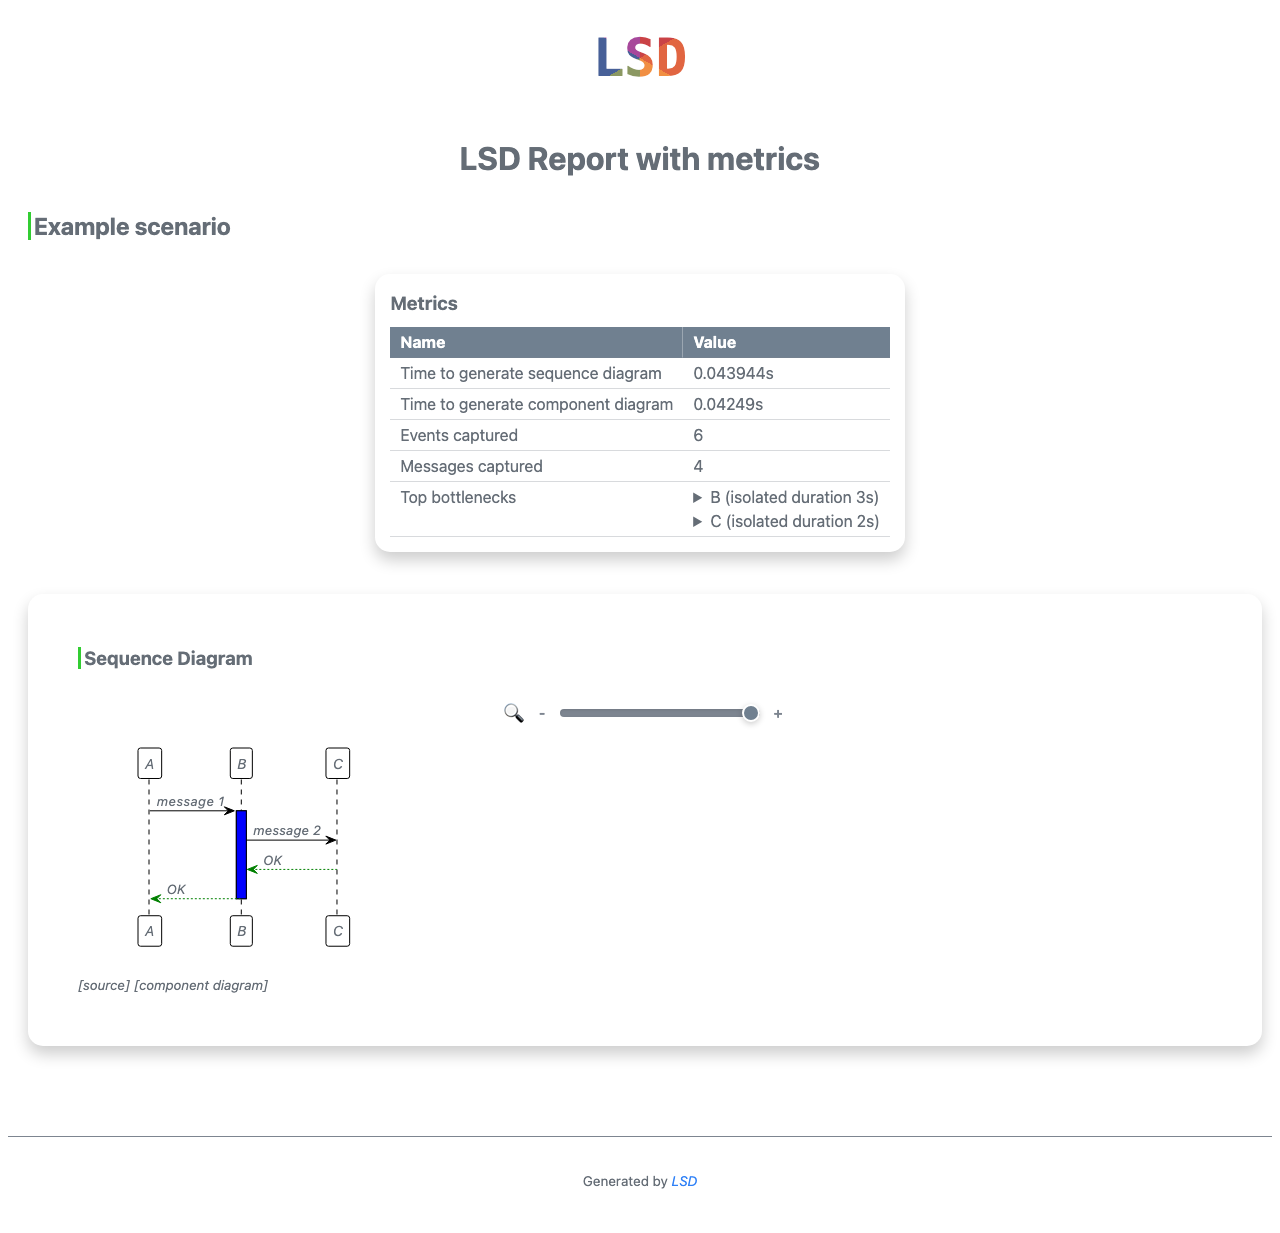
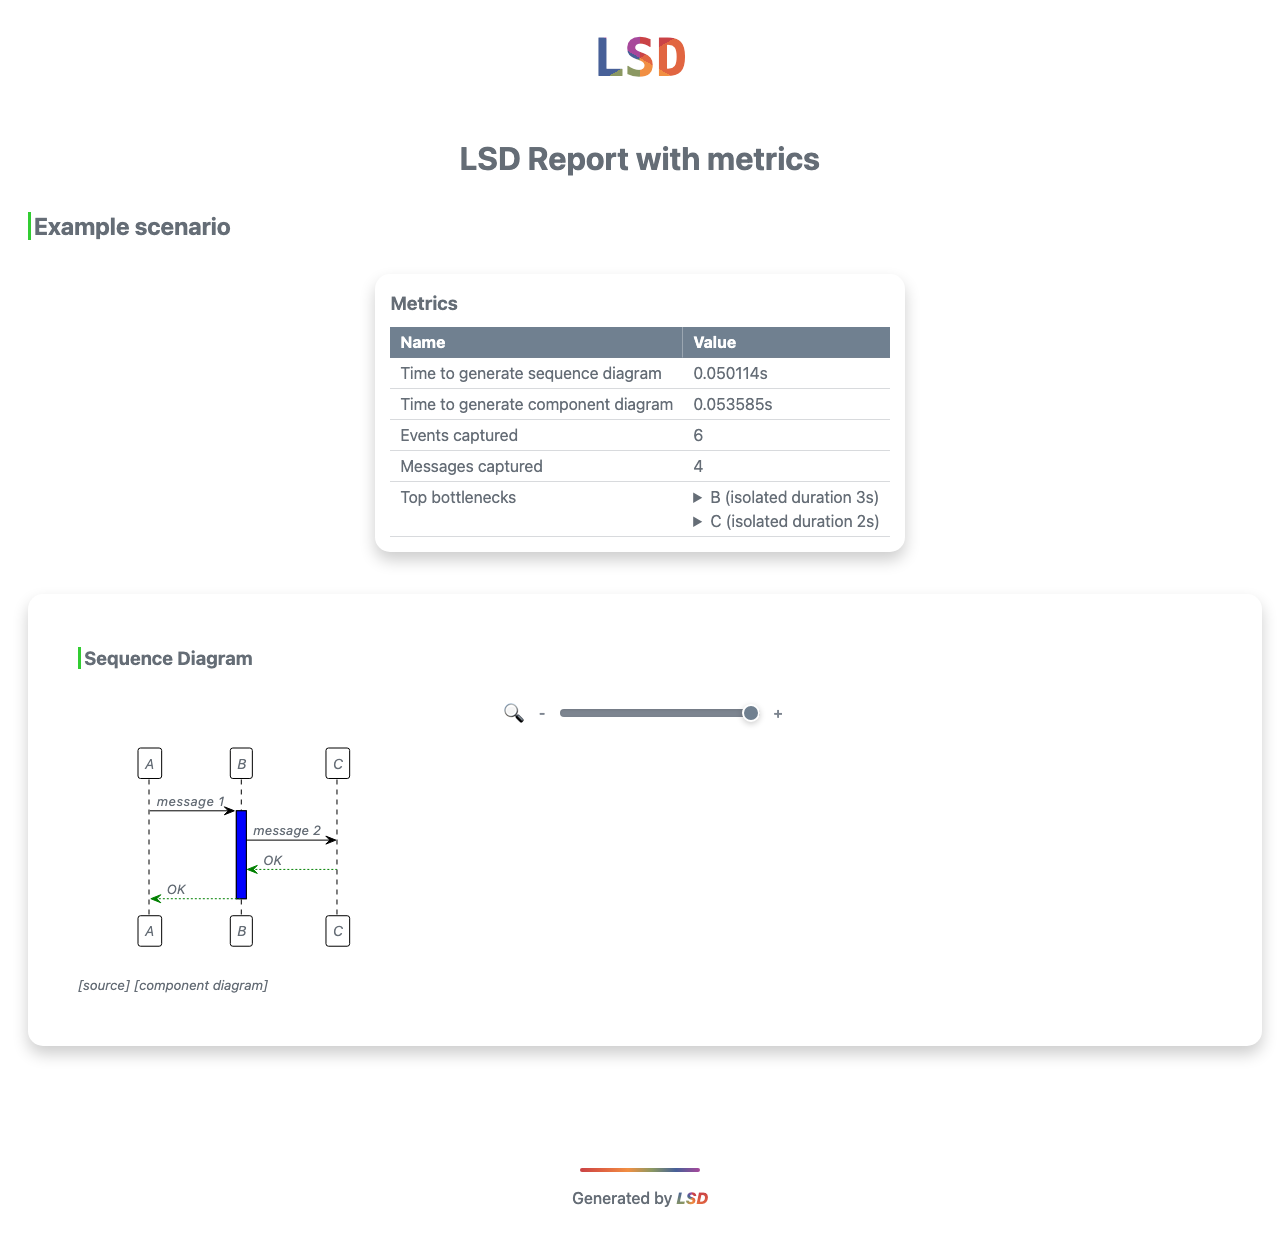
fix: update footer styling

diff --git a/src/test/java/com/lsd/core/report/approval/LsdContextTest.createsReportWithScenariosInDevMode.approved.html b/src/test/java/com/lsd/core/report/approval/LsdContextTest.createsReportWithScenariosInDevMode.approved.html
@@ -540,18 +540,38 @@ input[type="range"]::-moz-range-track {
 }
 
 /* Report footer */
-.report-footer {
-    text-align: center;
-    padding: 20px;
-    margin-top: 40px;
-    border-top: 1px solid var(--color-border);
-    font-size: 0.85em;
-    color: var(--color-text-secondary);
+.report-footer.ribbon {
+    padding: 32px 20px 36px;
+    margin-top: 72px;
+    background: var(--color-background-primary);
 }
 
-.report-footer a {
-    color: var(--color-5);
+.ribbon-bar {
+    height: 4px;
+    width: 120px;
+    margin: 0 auto 14px;
+    border-radius: 4px;
+    background: linear-gradient(90deg, #CA4246, #E16541, #F18F43, #8B9862, #476098, #A7489B);
 }
+
+.footer-stack {
+    text-align: center;
+}
+
+.report-footer .footer-text {
+    margin: 0;
+    color: var(--color-text-primary);
+    font-weight: 500;
+}
+
+.footer-brand {
+    font-weight: 800;
+    background: conic-gradient(#CA4246 16.6%, #E16541 33.3%, #F18F43 50%, #8B9862 66.6%, #476098 83.3%, #A7489B 100%);
+    -webkit-background-clip: text;
+    -webkit-text-fill-color: transparent;
+    text-decoration: none;
+}
+
 
 </style>
 
@@ -1543,9 +1563,12 @@ function scrollIntoViewFor(id) {
         highlightKeywords();highlightFact("30", "Lorem");highlightFact("33", "XYZ");
         unMarkSvg();
     </script>
-    <div class="report-footer">
-    <p>Generated by <a href="https://github.com/lsd-consulting/lsd-core" target="_blank" rel="noopener noreferrer">LSD</a></p>
-</div>
+    <footer class="report-footer ribbon">
+    <div class="ribbon-bar"></div>
+    <div class="footer-stack">
+        <p class="footer-text">Generated by <a class="footer-brand" href="https://github.com/lsd-consulting/lsd-core" target="_blank" rel="noopener noreferrer">LSD</a></p>
+    </div>
+</footer>
 
 </footer>
 </html>

diff --git a/src/main/resources/static/style.css b/src/main/resources/static/style.css
@@ -535,15 +535,35 @@ input[type="range"]::-moz-range-track {
 }
 
 /* Report footer */
-.report-footer {
-    text-align: center;
-    padding: 20px;
-    margin-top: 40px;
-    border-top: 1px solid var(--color-border);
-    font-size: 0.85em;
-    color: var(--color-text-secondary);
+.report-footer.ribbon {
+    padding: 32px 20px 36px;
+    margin-top: 72px;
+    background: var(--color-background-primary);
 }
 
-.report-footer a {
-    color: var(--color-5);
+.ribbon-bar {
+    height: 4px;
+    width: 120px;
+    margin: 0 auto 14px;
+    border-radius: 4px;
+    background: linear-gradient(90deg, #CA4246, #E16541, #F18F43, #8B9862, #476098, #A7489B);
 }
+
+.footer-stack {
+    text-align: center;
+}
+
+.report-footer .footer-text {
+    margin: 0;
+    color: var(--color-text-primary);
+    font-weight: 500;
+}
+
+.footer-brand {
+    font-weight: 800;
+    background: conic-gradient(#CA4246 16.6%, #E16541 33.3%, #F18F43 50%, #8B9862 66.6%, #476098 83.3%, #A7489B 100%);
+    -webkit-background-clip: text;
+    -webkit-text-fill-color: transparent;
+    text-decoration: none;
+}
+

diff --git a/src/test/java/com/lsd/core/report/approval/LsdContextTest.createsReportWithScenarios.approved.html b/src/test/java/com/lsd/core/report/approval/LsdContextTest.createsReportWithScenarios.approved.html
@@ -860,9 +860,12 @@ remove @unlinked
         highlightKeywords();highlightFact("30", "Lorem");highlightFact("33", "XYZ");
         unMarkSvg();
     </script>
-    <div class="report-footer">
-    <p>Generated by <a href="https://github.com/lsd-consulting/lsd-core" target="_blank" rel="noopener noreferrer">LSD</a></p>
-</div>
+    <footer class="report-footer ribbon">
+    <div class="ribbon-bar"></div>
+    <div class="footer-stack">
+        <p class="footer-text">Generated by <a class="footer-brand" href="https://github.com/lsd-consulting/lsd-core" target="_blank" rel="noopener noreferrer">LSD</a></p>
+    </div>
+</footer>
 
 </footer>
 </html>
